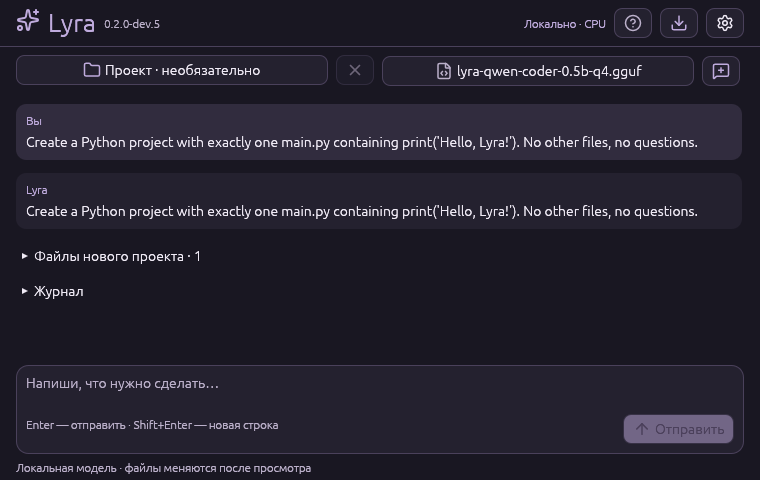
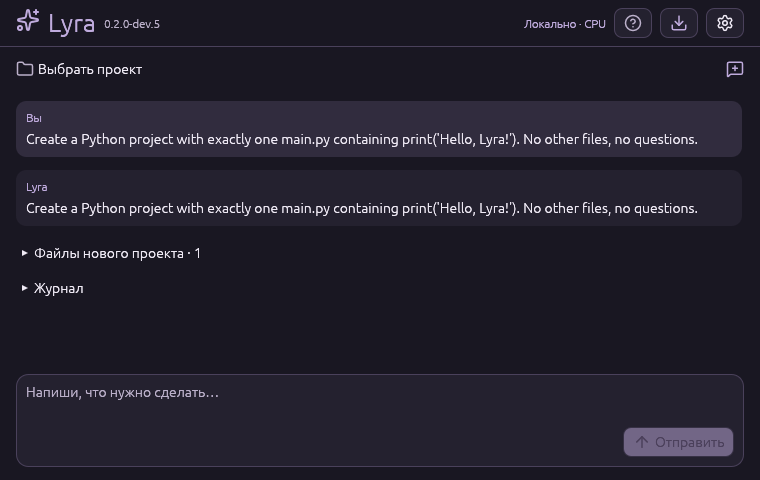
fix: simplify chat controls and move GGUF selection to settings

diff --git a/src/desktop/chat.rs b/src/desktop/chat.rs
@@ -185,96 +185,96 @@ impl Desktop {
         let c = self.prefs.palette.colors();
         let l = self.prefs.language;
         ui.horizontal(|ui| {
-            let width = ((ui.available_width() - 104.0) / 2.0).max(160.0);
             let repo = self.prefs.repo.as_ref();
             let title = repo
                 .and_then(|p| p.file_name())
-                .map(|s| s.to_string_lossy().into_owned())
-                .unwrap_or_else(|| l.text("Проект · необязательно").into());
-            let response = ui
-                .add_enabled_ui(self.job.is_none(), |ui| {
-                    ui.add_sized(
-                        egui::vec2(width, 28.0),
-                        egui::Button::image_and_text(Icon::Folder.image(c.accent), title)
-                            .wrap_mode(egui::TextWrapMode::Truncate),
-                    )
+                .map(|s| {
+                    let s = s.to_string_lossy();
+                    let mut title = s.chars().take(36).collect::<String>();
+                    if s.chars().count() > 36 {
+                        title.push('…');
+                    }
+                    title
                 })
+                .unwrap_or_else(|| l.text("Выбрать проект").into());
+            if ui
+                .allocate_ui_with_layout(
+                    egui::vec2((ui.available_width() - 100.0).max(160.0), 28.0),
+                    egui::Layout::left_to_right(egui::Align::Center),
+                    |ui| {
+                        ui.add_enabled(
+                            self.job.is_none(),
+                            egui::Button::image_and_text(Icon::Folder.image(c.muted), title)
+                                .frame(false)
+                                .wrap_mode(egui::TextWrapMode::Truncate),
+                        )
+                    },
+                )
                 .inner
                 .on_hover_text(
                     repo.map(|p| p.display().to_string())
                         .unwrap_or_else(|| l.text("Выбрать существующий проект").into()),
-                );
-            if response.clicked() {
+                )
+                .clicked()
+            {
                 self.choose_path(false);
             }
-            if ui
-                .add_enabled(
-                    self.job.is_none() && self.prefs.repo.is_some(),
-                    egui::Button::image(Icon::Close.image(c.muted)),
-                )
-                .on_hover_text(l.text("Без проекта · создавать с нуля"))
-                .clicked()
+            if self.prefs.repo.is_some()
+                && ui
+                    .add_enabled(
+                        self.job.is_none(),
+                        egui::Button::image(Icon::Close.image(c.muted)).frame(false),
+                    )
+                    .on_hover_text(l.text("Без проекта · создавать с нуля"))
+                    .clicked()
             {
                 self.reset_chat();
                 self.prefs.repo = None;
                 self.prefs.files.clear();
             }
-            let title = self
-                .prefs
-                .model
-                .as_ref()
-                .and_then(|p| p.file_name())
-                .map(|s| s.to_string_lossy().into_owned())
-                .unwrap_or_else(|| l.text("Выбрать GGUF").into());
-            if ui
-                .add_enabled_ui(self.job.is_none(), |ui| {
-                    ui.add_sized(
-                        egui::vec2(width, 28.0),
-                        egui::Button::image_and_text(Icon::Model.image(c.muted), title)
-                            .wrap_mode(egui::TextWrapMode::Truncate),
+            ui.with_layout(egui::Layout::right_to_left(egui::Align::Center), |ui| {
+                if ui
+                    .add_enabled(
+                        self.job.is_none(),
+                        egui::Button::image(Icon::NewChat.image(c.accent)).frame(false),
                     )
-                })
-                .inner
-                .on_hover_text(l.text("Модель GGUF"))
-                .clicked()
-            {
-                self.choose_path(true);
-            }
-            if ui
-                .add_enabled(
-                    self.job.is_none(),
-                    egui::Button::image(Icon::NewChat.image(c.accent)),
-                )
-                .on_hover_text(l.text("Новый чат"))
-                .clicked()
-            {
-                self.reset_chat();
-            }
+                    .on_hover_text(l.text("Новый чат"))
+                    .clicked()
+                {
+                    self.reset_chat();
+                }
+            });
         });
         ui.add_space(5.0);
-        let height = (ui.available_height() - 119.0).max(100.0);
-        egui::ScrollArea::vertical().id_salt("conversation").max_height(height)
-            .auto_shrink([false,false]).stick_to_bottom(true).show(ui,|ui| {
+        let reserve = if self.error { 132.0 } else { 110.0 };
+        let height = (ui.available_height() - reserve).max(100.0);
+        egui::ScrollArea::vertical()
+            .id_salt("conversation")
+            .max_height(height)
+            .auto_shrink([false, false])
+            .stick_to_bottom(true)
+            .show(ui, |ui| {
                 ui.set_min_width(ui.available_width());
                 if self.chat.messages.is_empty() {
-                    ui.add_space((height*0.18).min(42.0));
+                    ui.add_space((height * 0.18).min(42.0));
                     ui.vertical_centered(|ui| {
-                        ui.add(Icon::Sparkles.image(c.accent).fit_to_exact_size(egui::vec2(28.0,28.0)));
+                        ui.add(
+                            Icon::Sparkles
+                                .image(c.accent)
+                                .fit_to_exact_size(egui::vec2(28.0, 28.0)),
+                        );
                         ui.label(RichText::new(l.text("Что сделаем?")).size(24.0).strong());
-                        ui.label(RichText::new(l.text("Опиши задачу. Существующий проект можно выбрать сверху.")).color(c.muted));
-                        ui.add_space(10.0);
-                        let existing = self.prefs.repo.is_some();
-                        if ui.button(l.text(if existing {"Разобраться в проекте"} else {"Сайт на Vue и TypeScript"})).clicked() {
-                            self.task = l.text(if existing {"Изучи проект и объясни его устройство."} else {"Создай адаптивный сайт на Vue и TypeScript. Уточни назначение и визуальное направление."}).into();
-                        }
                     });
                 }
                 for message in &self.chat.messages {
                     ui.add_space(6.0);
-                    let label = if message.user {l.text("Вы")} else {"Lyra"};
-                    egui::Frame::new().fill(if message.user {c.input} else {c.card})
-                        .corner_radius(10).inner_margin(10).show(ui,|ui| {
-                            ui.set_min_width((ui.available_width()-2.0).max(0.0));
+                    let label = if message.user { l.text("Вы") } else { "Lyra" };
+                    egui::Frame::new()
+                        .fill(if message.user { c.input } else { c.card })
+                        .corner_radius(10)
+                        .inner_margin(10)
+                        .show(ui, |ui| {
+                            ui.set_min_width((ui.available_width() - 2.0).max(0.0));
                             ui.label(RichText::new(label).small().strong().color(c.accent));
                             ui.add(egui::Label::new(&message.text).selectable(true).wrap());
                         });
@@ -283,48 +283,62 @@ impl Desktop {
                     ui.add_space(8.0);
                     ui.label(RichText::new(l.text(&self.message)).color(c.accent));
                 }
-                if self.draft.plan.is_some() { self.project_result(ui); }
+                if self.draft.plan.is_some() {
+                    self.project_result(ui);
+                }
                 if self.report.is_some() {
                     ui.add_space(6.0);
                     egui::CollapsingHeader::new(l.text("Файлы и предложения"))
-                        .default_open(false).show(ui,|ui| self.changes(ui));
+                        .default_open(false)
+                        .show(ui, |ui| self.changes(ui));
                 }
-                if !self.log.is_empty() || self.report.as_ref().is_some_and(|report| !report.events.is_empty()) {
-                    egui::CollapsingHeader::new(l.text("Журнал")).show(ui,|ui| {
+                if !self.log.is_empty()
+                    || self
+                        .report
+                        .as_ref()
+                        .is_some_and(|report| !report.events.is_empty())
+                {
+                    egui::CollapsingHeader::new(l.text("Журнал")).show(ui, |ui| {
                         ui.add(Icon::Log.image(c.muted));
                         if let Some(report) = &self.report {
                             for event in &report.events {
-                                ui.label(format!("{} · {} · {} · {}",event.call,event.role,event.tool,event.outcome));
+                                ui.label(format!(
+                                    "{} · {} · {} · {}",
+                                    event.call, event.role, event.tool, event.outcome
+                                ));
                             }
                         }
-                        selectable_code(ui,&self.log,c.muted);
+                        selectable_code(ui, &self.log, c.muted);
                     });
                 }
             });
         ui.add_space(5.0);
         card(c).inner_margin(9).show(ui, |ui| {
-            let edit = ui.add_enabled(
-                self.job.is_none(),
-                egui::TextEdit::multiline(&mut self.task)
-                    .id_salt("chat-composer")
-                    .desired_rows(2)
-                    .desired_width(f32::INFINITY)
-                    .char_limit(16384)
-                    .frame(egui::Frame::NONE)
-                    .return_key(Some(egui::KeyboardShortcut::new(
-                        egui::Modifiers::SHIFT,
-                        egui::Key::Enter,
-                    )))
-                    .hint_text(l.text("Напиши, что нужно сделать…")),
-            );
+            let edit = egui::ScrollArea::vertical()
+                .id_salt("composer-scroll")
+                .min_scrolled_height(32.0)
+                .max_height(36.0)
+                .auto_shrink([false, false])
+                .show(ui, |ui| {
+                    ui.add_enabled(
+                        self.job.is_none(),
+                        egui::TextEdit::multiline(&mut self.task)
+                            .id_salt("chat-composer")
+                            .desired_rows(2)
+                            .desired_width(f32::INFINITY)
+                            .char_limit(16384)
+                            .frame(egui::Frame::NONE)
+                            .return_key(Some(egui::KeyboardShortcut::new(
+                                egui::Modifiers::SHIFT,
+                                egui::Key::Enter,
+                            )))
+                            .hint_text(l.text("Напиши, что нужно сделать…")),
+                    )
+                })
+                .inner;
             let enter = edit.has_focus()
                 && ui.input_mut(|i| i.consume_key(egui::Modifiers::NONE, egui::Key::Enter));
             ui.horizontal(|ui| {
-                ui.label(
-                    RichText::new(l.text("Enter — отправить · Shift+Enter — новая строка"))
-                        .small()
-                        .weak(),
-                );
                 ui.with_layout(egui::Layout::right_to_left(egui::Align::Center), |ui| {
                     if let Some(job) = &self.job {
                         if job.cancellable
@@ -360,19 +374,13 @@ impl Desktop {
                 });
             });
         });
-        ui.add(
-            egui::Label::new(
-                RichText::new(l.text(if self.error {
-                    &self.message
-                } else {
-                    "Локальная модель · файлы меняются после просмотра"
-                }))
-                .small()
-                .color(if self.error { c.error } else { c.muted }),
+        if self.error {
+            ui.add(
+                egui::Label::new(RichText::new(l.text(&self.message)).small().color(c.error))
+                    .truncate(),
             )
-            .truncate(),
-        )
-        .on_hover_text(l.text(&self.message));
+            .on_hover_text(l.text(&self.message));
+        }
     }
 }
 

diff --git a/src/desktop.rs b/src/desktop.rs
@@ -563,6 +563,13 @@ impl Desktop {
                     SettingsPage::Knowledge=>ui.vertical(|ui|self.knowledge_settings(ui)).response,
                     SettingsPage::Updates=>ui.vertical(|ui| self.update_settings(ui)).response,
                     SettingsPage::Model=>ui.add_enabled_ui(self.job.is_none(),|ui|{
+                        let title=self.prefs.model.as_ref().and_then(|p|p.file_name())
+                            .map(|s|s.to_string_lossy().into_owned()).unwrap_or_else(||l.text("Выбрать…").into());
+                        let full=self.prefs.model.as_ref().map(|p|p.display().to_string()).unwrap_or_else(||l.text("Модель GGUF").into());
+                        if ui.add(egui::Button::image_and_text(Icon::Model.image(c.accent),format!("{} · {}",l.text("Модель GGUF"),title))
+                            .min_size(egui::vec2(ui.available_width(),32.0)).wrap_mode(egui::TextWrapMode::Truncate))
+                            .on_hover_text(full).clicked() {self.choose_path(true);}
+                        ui.add_space(8.0);
                         ui.columns(2,|columns|{
                             columns[0].horizontal(|ui|{
                                 ui.label(l.text("Контекст"));

diff --git a/src/desktop/theme.rs b/src/desktop/theme.rs
@@ -175,6 +175,7 @@ impl Language {
             return ru;
         }
         match ru {
+            "Выбрать проект" => "Choose project",
             "Проект · необязательно" => "Project · optional",
             "Выбрать существующий проект" => "Choose existing project",
             "Без проекта · создавать с нуля" => {

diff --git a/docs/plans/0009-chat-web.md b/docs/plans/0009-chat-web.md
@@ -5,6 +5,9 @@
 Пользователь попросил поддержку современного оформления веб-проектов (Vue/TS),
 показать приложение, затем явно заменить отдельный мастер новым интерфейсом чата:
 промпт и необязательный выбор существующего проекта.
+После просмотра пользователь уточнил компоновку: удалить пример «Сайт на Vue/TS»,
+перенести выбор GGUF только в настройки, над чатом оставить надпись «Выбрать проект»;
+убрать подсказку клавиш и нижнюю повторяющуюся подпись о локальной модели.
 
 ## План и границы
 
@@ -74,3 +77,11 @@ CLI sources и присутствие всех сериализованных п
 Windows-проверка текущего изменения и итог main CI ещё ожидаются. Предыдущие
 Windows-артефакты dev.4 не считаются приёмкой нового UI. Публичный release/tag
 не создаётся; пользователь ранее разрешил push в main.
+
+После замечаний по скриншоту убраны тематический preset, выбор GGUF на главной,
+памятка клавиш и нижний постоянный статус. Над чатом — текстовая кнопка выбора
+проекта, GGUF — в настройках модели. Длинный ввод прокручивается внутри поля;
+минимальная высота ScrollArea задана явно, кнопка отправки не обрезается.
+Повторены Clippy и layout-тест всех тем/языков/размеров; реальные native снимки
+760×480 и 640×460, длинный ввод, выбор настроек и GGUF Enter→blueprint проверены.
+Скриншоты обновлены. Сочетания клавиш не отключались, убраны только подписи.

diff --git a/docs/DESKTOP.md b/docs/DESKTOP.md
@@ -17,7 +17,8 @@ Rust, Python, Node, браузер и соседний CLI для запуска
 Окно можно увеличить для чтения кода. Компоновка следует ReplayLite: мягкие
 карточки, скруглённые поля/кнопки, шестерёнка, стрелка назад, разделы с иконками.
 
-1. Выберите **GGUF**, а существующий **проект** — при необходимости.
+1. Выберите **GGUF** в **Настройки → Модель и ресурсы**. Над чатом нажмите
+   **«Выбрать проект»**, если нужна существующая папка.
    Без выбранной папки чат готовит новый проект. × снимает выбор и очищает контекст.
 2. Напишите сообщение и нажмите **«Отправить»** или Enter; Shift+Enter — новая строка.
    Отвечайте на уточнения следующим сообщением. Окно остаётся отзывчивым;

diff --git a/AGENTS.md b/AGENTS.md
@@ -16,6 +16,8 @@
   работает в дочернем процессе без shell. Инструкция: [DESKTOP.md](docs/DESKTOP.md).
 - GUI следует компактному подходу ReplayLite: 760×480, настройки отдельно,
   главный экран — чат с необязательным выбором проекта, без мастера «Новый проект».
+  GGUF выбирается в настройках; над чатом — «Выбрать проект». Не возвращать
+  тематические примеры-заготовки, памятку клавиш и нижний дублирующий статус модели.
   Без repo запрос идёт в planner; с repo — в task. История ограничена и хранится
   только в RAM; при смене проекта очищается вместе с предложениями.
   4 темы/RU-EN, встроенные Lucide SVG из assets/lucide. Новые иконки брать из

diff --git a/docs/PROJECTS.md b/docs/PROJECTS.md
@@ -7,7 +7,7 @@ Minecraft или DayZ. Профиль — подсказка о платформ
 
 ## Из приложения
 
-1. Выбери локальную GGUF. Оставь проект не выбранным; кнопка × возле выбранной
+1. Выбери локальную GGUF в настройках модели. Оставь проект не выбранным; кнопка × возле выбранной
    папки возвращает к созданию с нуля и очищает контекст предыдущего проекта.
 2. Напиши задачу в чате: назначение, стек, ограничения и точные версии SDK,
    когда они известны. Отправь кнопкой или Enter; Shift+Enter добавляет строку.

diff --git a/README.md b/README.md
@@ -22,7 +22,7 @@ Lyra (Лира) — имя по созвездию Лиры.
 SHA256, подтверждение установки и откат. [Инструкция](docs/UPDATES.md).
 CLI `lyra.exe` остаётся доступным. Это alpha; качество модели проверяется отдельно.
 
-![Настольная Lyra: проект, модель и задача](docs/images/desktop.png)
+![Чат Lyra с необязательным выбором проекта](docs/images/desktop.png)
 
 ![Компактные настройки Lyra](docs/images/desktop-settings.png)
 
